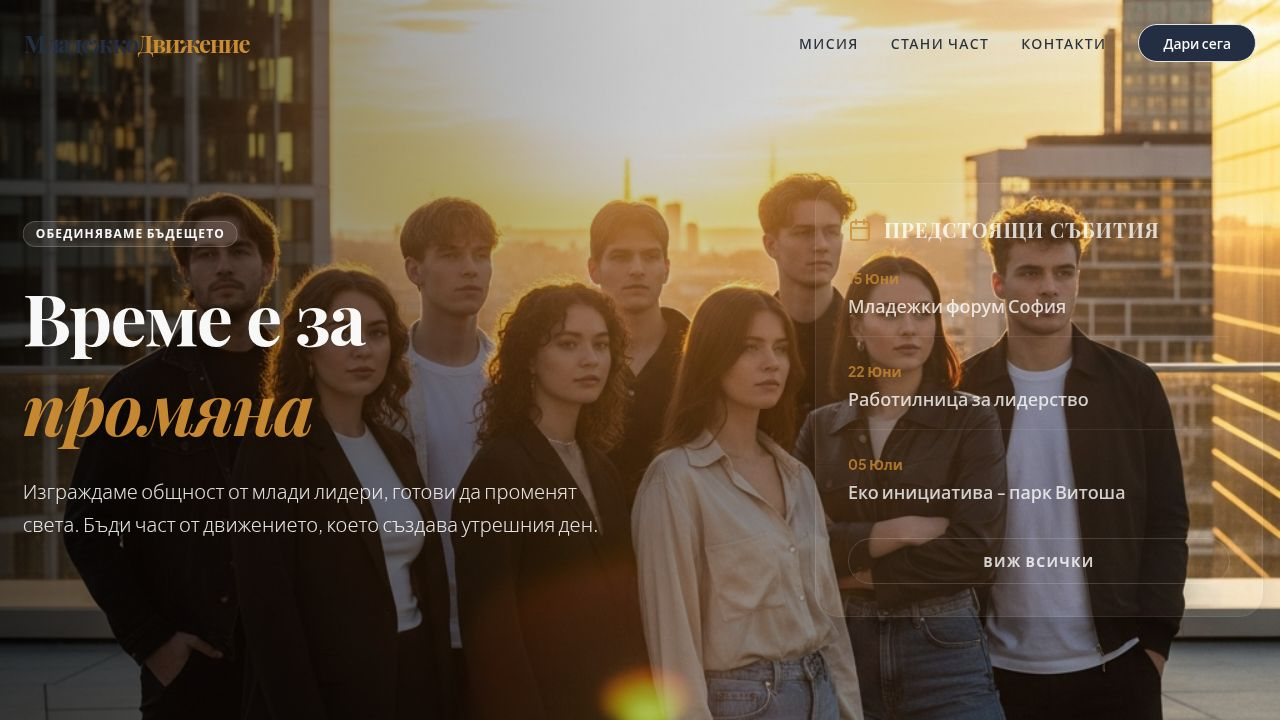
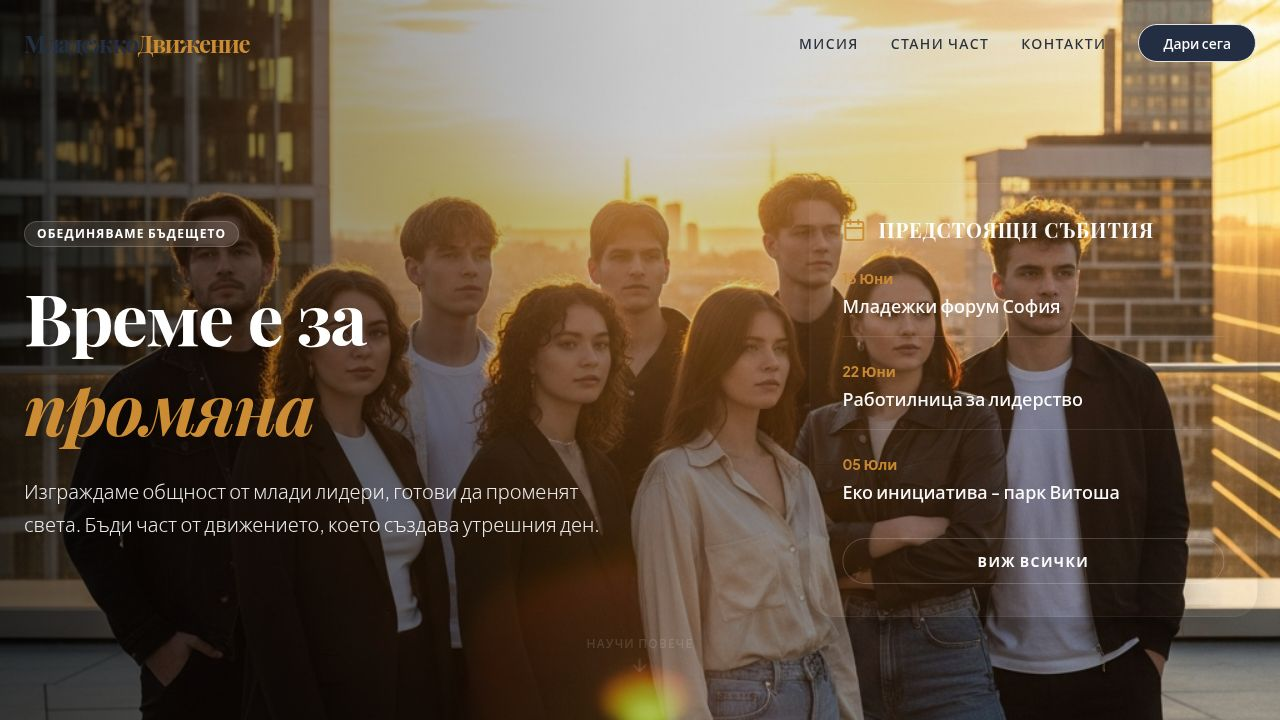
Enhance website's visual appeal and interactivity with design updates
Update Contact and Mission components with new styling, background images, and interactive elements. Modify Hero component's event card transparency and remove Newsletter section. Replace placeholder map image with an interactive Google Maps component and update social media icons.

Replit-Commit-Author: Agent
Replit-Commit-Session-Id: 883bfd09-707e-4dc5-90e1-a57afe5a4a24
Replit-Commit-Checkpoint-Type: full_checkpoint
Replit-Commit-Event-Id: b340d27f-315e-4698-9c1c-556fa3ac6c01
Replit-Commit-Screenshot-Url: https://storage.googleapis.com/screenshot-production-us-central1/4c99a2a5-47a5-4cc9-a567-d52ed7da3701/883bfd09-707e-4dc5-90e1-a57afe5a4a24/mGE57mT
Replit-Helium-Checkpoint-Created: true

diff --git a/client/src/components/sections/Contact.tsx b/client/src/components/sections/Contact.tsx
@@ -4,10 +4,9 @@ import { Textarea } from "@/components/ui/textarea";
 import { useForm } from "react-hook-form";
 import { zodResolver } from "@hookform/resolvers/zod";
 import * as z from "zod";
-import { Form, FormControl, FormField, FormItem, FormLabel, FormMessage } from "@/components/ui/form";
+import { Form, FormControl, FormField, FormItem, FormMessage } from "@/components/ui/form";
 import { useToast } from "@/hooks/use-toast";
-import mapImage from "@/assets/map-placeholder.png";
-import { Facebook, Instagram, Twitter } from "lucide-react";
+import { Facebook, Instagram, Music2 } from "lucide-react";
 
 const formSchema = z.object({
   name: z.string().min(2, "Името трябва да е поне 2 символа"),
@@ -19,11 +18,7 @@ export function Contact() {
   const { toast } = useToast();
   const form = useForm<z.infer<typeof formSchema>>({
     resolver: zodResolver(formSchema),
-    defaultValues: {
-      name: "",
-      email: "",
-      message: "",
-    },
+    defaultValues: { name: "", email: "", message: "" },
   });
 
   function onSubmit(values: z.infer<typeof formSchema>) {
@@ -37,25 +32,23 @@ export function Contact() {
   return (
     <section id="contact" className="py-24 bg-background">
       <div className="container mx-auto px-6">
-        <div className="grid lg:grid-cols-2 gap-8 items-stretch">
+        <div className="flex flex-col lg:flex-row gap-12 items-start justify-center">
           {/* Form Card */}
-          <div className="bg-secondary/20 backdrop-blur-sm p-10 rounded-3xl border border-border/50 shadow-sm flex flex-col h-full">
+          <div className="bg-secondary/10 backdrop-blur-md p-10 rounded-[2rem] border border-border/30 shadow-xl w-full lg:max-w-lg">
             <div className="mb-8">
-              <h2 className="text-4xl font-serif font-bold text-primary mb-4">Свържи се с нас</h2>
-              <p className="text-muted-foreground">
-                Имаш въпрос или идея? Попълни формата и ние ще ти отговорим.
-              </p>
+              <h2 className="text-3xl font-serif font-bold text-primary mb-3">Свържи се с нас</h2>
+              <div className="w-12 h-1 bg-accent mb-4" />
             </div>
 
             <Form {...form}>
-              <form onSubmit={form.handleSubmit(onSubmit)} className="space-y-6 flex-1">
+              <form onSubmit={form.handleSubmit(onSubmit)} className="space-y-5">
                 <FormField
                   control={form.control}
                   name="name"
                   render={({ field }) => (
                     <FormItem>
                       <FormControl>
-                        <Input placeholder="Име" {...field} className="h-14 bg-white/50 border-border/50 focus:bg-white" />
+                        <Input placeholder="Име" {...field} className="h-12 bg-white/40 border-none rounded-xl focus:bg-white transition-all shadow-inner" />
                       </FormControl>
                       <FormMessage />
                     </FormItem>
@@ -67,7 +60,7 @@ export function Contact() {
                   render={({ field }) => (
                     <FormItem>
                       <FormControl>
-                        <Input placeholder="Имейл" {...field} className="h-14 bg-white/50 border-border/50 focus:bg-white" />
+                        <Input placeholder="Имейл" {...field} className="h-12 bg-white/40 border-none rounded-xl focus:bg-white transition-all shadow-inner" />
                       </FormControl>
                       <FormMessage />
                     </FormItem>
@@ -81,7 +74,7 @@ export function Contact() {
                       <FormControl>
                         <Textarea 
                           placeholder="Твоят въпрос..." 
-                          className="min-h-[180px] bg-white/50 border-border/50 focus:bg-white resize-none" 
+                          className="min-h-[140px] bg-white/40 border-none rounded-xl focus:bg-white transition-all shadow-inner resize-none" 
                           {...field} 
                         />
                       </FormControl>
@@ -89,46 +82,38 @@ export function Contact() {
                     </FormItem>
                   )}
                 />
-                <Button type="submit" className="w-full h-14 text-lg font-bold rounded-2xl" disabled={form.formState.isSubmitting}>
-                  Изпрати запитване
+                <Button type="submit" className="w-full h-12 text-md font-bold rounded-xl shadow-lg hover:shadow-accent/20 transition-all">
+                  Изпрати
                 </Button>
               </form>
             </Form>
           </div>
 
           {/* Map & Socials Column */}
-          <div className="flex flex-col gap-8">
-            {/* Map Area */}
-            <div className="flex-1 min-h-[350px] relative rounded-3xl overflow-hidden shadow-sm border border-border/50">
-              <img 
-                src={mapImage} 
-                alt="Map Location" 
-                className="w-full h-full object-cover grayscale opacity-70"
-              />
-              <div className="absolute bottom-4 left-4 right-4 bg-white/80 backdrop-blur-md p-4 rounded-2xl border border-white/20 text-sm">
-                <p className="font-bold">ул. "Примерна" №15, София</p>
-              </div>
+          <div className="flex flex-col gap-6 w-full lg:w-auto">
+            {/* Real Interactive Map */}
+            <div className="h-[320px] lg:w-[450px] rounded-[2rem] overflow-hidden shadow-xl border border-border/30 grayscale hover:grayscale-0 transition-all duration-700">
+              <iframe 
+                src="https://www.google.com/maps/embed?pb=!1m18!1m12!1m3!1d187742.668478496!2d23.2505436662485!3d42.69534639454721!2m3!1f0!2f0!3f0!3m2!1i1024!2i768!4f13.1!3m3!1m2!1s0x40aa861578f50533%3A0x78395ad9d44800!2sSofia!5e0!3m2!1sen!2sbg!4v1716384000000!5m2!1sen!2sbg" 
+                width="100%" 
+                height="100%" 
+                style={{ border: 0 }} 
+                allowFullScreen={true} 
+                loading="lazy" 
+                referrerPolicy="no-referrer-when-downgrade"
+              ></iframe>
             </div>
             
-            {/* Socials Card */}
-            <div className="bg-secondary/20 backdrop-blur-sm p-8 rounded-3xl border border-border/50 flex justify-center items-center gap-10">
-              <a href="#" className="group flex flex-col items-center gap-2">
-                <div className="p-4 rounded-2xl bg-white/50 group-hover:bg-primary group-hover:text-white transition-all duration-300">
-                  <Facebook className="w-6 h-6" />
-                </div>
-                <span className="text-[10px] uppercase tracking-widest font-bold opacity-50">Facebook</span>
+            {/* Compact Socials Card */}
+            <div className="bg-secondary/10 backdrop-blur-md p-6 rounded-[2rem] border border-border/30 flex justify-center gap-6 self-center lg:self-start px-8">
+              <a href="#" className="p-4 rounded-xl bg-white/50 hover:bg-primary hover:text-white transition-all duration-300 shadow-sm">
+                <Facebook className="w-5 h-5" />
               </a>
-              <a href="#" className="group flex flex-col items-center gap-2">
-                <div className="p-4 rounded-2xl bg-white/50 group-hover:bg-accent group-hover:text-white transition-all duration-300">
-                  <Instagram className="w-6 h-6" />
-                </div>
-                <span className="text-[10px] uppercase tracking-widest font-bold opacity-50">Instagram</span>
+              <a href="#" className="p-4 rounded-xl bg-white/50 hover:bg-accent hover:text-accent-foreground transition-all duration-300 shadow-sm">
+                <Instagram className="w-5 h-5" />
               </a>
-              <a href="#" className="group flex flex-col items-center gap-2">
-                <div className="p-4 rounded-2xl bg-white/50 group-hover:bg-black group-hover:text-white transition-all duration-300">
-                  <Twitter className="w-6 h-6" />
-                </div>
-                <span className="text-[10px] uppercase tracking-widest font-bold opacity-50">TikTok</span>
+              <a href="#" className="p-4 rounded-xl bg-white/50 hover:bg-black hover:text-white transition-all duration-300 shadow-sm">
+                <Music2 className="w-5 h-5" /> {/* TikTok icon */}
               </a>
             </div>
           </div>

diff --git a/client/src/components/sections/Mission.tsx b/client/src/components/sections/Mission.tsx
@@ -1,6 +1,9 @@
 import { motion } from "framer-motion";
 import { useState } from "react";
 import { Target, Lightbulb } from "lucide-react";
+import missionBg from "@/assets/mission-bg.png";
+import missionImg from "@/assets/mission-card.png";
+import visionImg from "@/assets/vision-card.png";
 
 export function Mission() {
   const [flipped, setFlipped] = useState<number | null>(null);
@@ -8,55 +11,69 @@ export function Mission() {
   const cards = [
     {
       icon: <Target className="w-12 h-12 text-accent" />,
+      image: missionImg,
       title: "Мисия",
-      front: "Мисията на „НЕКСТ ДЖЕН БЪЛГАРИЯ“ е да подкрепя развитието на младите хора...",
+      frontText: "Изграждаме умения за бъдещето чрез иновативно образование.",
       back: "Мисията на „НЕКСТ ДЖЕН БЪЛГАРИЯ“ е да подкрепя развитието на младите хора чрез неформално образование, изграждане на ключови умения и насърчаване на активно гражданско участие. Работим за приобщаване, равни възможности и социална интеграция, като създаваме достъпна и подкрепяща среда за всички млади хора."
     },
     {
       icon: <Lightbulb className="w-12 h-12 text-primary" />,
+      image: visionImg,
       title: "Визия",
-      front: "Вярваме в общество, в което младите хора са активни, уверени и ангажирани...",
+      frontText: "Създаваме общество от уверени и ангажирани млади граждани.",
       back: "Вярваме в общество, в което младите хора са активни, уверени и ангажирани граждани, допринасящи за демократични, приобщаващи и устойчиви общности в България и Европа."
     }
   ];
 
   return (
-    <section id="mission" className="py-24 bg-background relative overflow-hidden">
-      <div className="container mx-auto px-6">
-        <div className="text-center mb-16">
-          <h2 className="text-4xl md:text-5xl font-serif font-bold text-primary mb-4">Защо сме тук?</h2>
-          <div className="w-24 h-1 bg-accent mx-auto" />
+    <section id="mission" className="py-32 relative overflow-hidden">
+      {/* Background Image */}
+      <div className="absolute inset-0 z-0">
+        <img src={missionBg} className="w-full h-full object-cover opacity-20" alt="Background" />
+        <div className="absolute inset-0 bg-gradient-to-b from-background via-transparent to-background" />
+      </div>
+
+      <div className="container mx-auto px-6 relative z-10">
+        <div className="text-center mb-20">
+          <h2 className="text-4xl md:text-6xl font-serif font-bold text-primary mb-6 uppercase tracking-tight">Защо сме тук?</h2>
+          <div className="w-32 h-1 bg-accent mx-auto" />
         </div>
 
-        <div className="grid md:grid-cols-2 gap-12 max-w-5xl mx-auto">
+        <div className="grid md:grid-cols-2 gap-16 max-w-6xl mx-auto">
           {cards.map((card, index) => (
             <div 
               key={index}
-              className="perspective-1000 h-[400px] cursor-pointer"
+              className="perspective-1000 h-[500px] cursor-pointer"
               onClick={() => setFlipped(flipped === index ? null : index)}
             >
               <motion.div
                 initial={false}
                 animate={{ rotateY: flipped === index ? 180 : 0 }}
-                transition={{ duration: 0.6, type: "spring", stiffness: 260, damping: 20 }}
+                transition={{ duration: 0.8, type: "spring", stiffness: 150, damping: 20 }}
                 className="relative w-full h-full preserve-3d"
               >
                 {/* Front */}
-                <div className="absolute inset-0 backface-hidden bg-card rounded-3xl shadow-xl p-10 flex flex-col items-center justify-center text-center border border-border">
-                  <div className="mb-8 p-6 rounded-full bg-secondary/30">
-                    {card.icon}
+                <div className="absolute inset-0 backface-hidden bg-card/80 backdrop-blur-sm rounded-[2.5rem] shadow-2xl p-0 overflow-hidden border border-white/20 flex flex-col">
+                  <div className="h-2/3 w-full relative">
+                    <img src={card.image} className="w-full h-full object-cover" alt={card.title} />
+                    <div className="absolute inset-0 bg-gradient-to-t from-card/90 to-transparent" />
                   </div>
-                  <h3 className="text-3xl font-serif font-bold text-primary mb-4">{card.title}</h3>
-                  <p className="text-muted-foreground italic">Кликни за детайли</p>
+                  <div className="p-8 flex flex-col items-center justify-center text-center -mt-16 relative z-10">
+                    <div className="mb-4 p-4 rounded-2xl bg-white shadow-lg text-primary">
+                      {card.icon}
+                    </div>
+                    <h3 className="text-3xl font-serif font-bold text-primary mb-4">{card.title}</h3>
+                    <p className="text-muted-foreground leading-relaxed px-4">{card.frontText}</p>
+                  </div>
                 </div>
 
                 {/* Back */}
                 <div 
-                  className="absolute inset-0 backface-hidden bg-primary rounded-3xl shadow-xl p-10 flex flex-col items-center justify-center text-center text-primary-foreground border border-primary/20"
+                  className="absolute inset-0 backface-hidden bg-primary rounded-[2.5rem] shadow-2xl p-12 flex flex-col items-center justify-center text-center text-primary-foreground border border-primary/20"
                   style={{ transform: "rotateY(180deg)" }}
                 >
-                  <h3 className="text-2xl font-serif font-bold mb-6 text-accent">{card.title}</h3>
-                  <p className="leading-relaxed text-lg">
+                  <h3 className="text-3xl font-serif font-bold mb-8 text-accent">{card.title}</h3>
+                  <p className="leading-relaxed text-xl font-light">
                     {card.back}
                   </p>
                 </div>

diff --git a/client/src/components/sections/Hero.tsx b/client/src/components/sections/Hero.tsx
@@ -53,7 +53,7 @@ export function Hero() {
             transition={{ duration: 0.8, delay: 0.4 }}
             className="lg:justify-self-end w-full max-w-md"
           >
-            <div className="bg-white/5 backdrop-blur-xl border border-white/10 p-8 rounded-3xl shadow-2xl">
+            <div className="bg-white/2 backdrop-blur-xl border border-white/5 p-8 rounded-3xl shadow-2xl">
               <div className="flex items-center gap-3 mb-6">
                 <Calendar className="text-accent w-6 h-6" />
                 <h3 className="text-xl font-serif font-bold text-white uppercase tracking-wider">Предстоящи събития</h3>

diff --git a/client/src/pages/Home.tsx b/client/src/pages/Home.tsx
@@ -2,7 +2,6 @@ import { Navbar } from "@/components/layout/Navbar";
 import { Hero } from "@/components/sections/Hero";
 import { Mission } from "@/components/sections/Mission";
 import { JoinUs } from "@/components/sections/JoinUs";
-import { Newsletter } from "@/components/sections/Newsletter";
 import { Contact } from "@/components/sections/Contact";
 import { Footer } from "@/components/sections/Footer";
 
@@ -14,7 +13,6 @@ export default function Home() {
         <Hero />
         <Mission />
         <JoinUs />
-        <Newsletter />
         <Contact />
       </main>
       <Footer />
